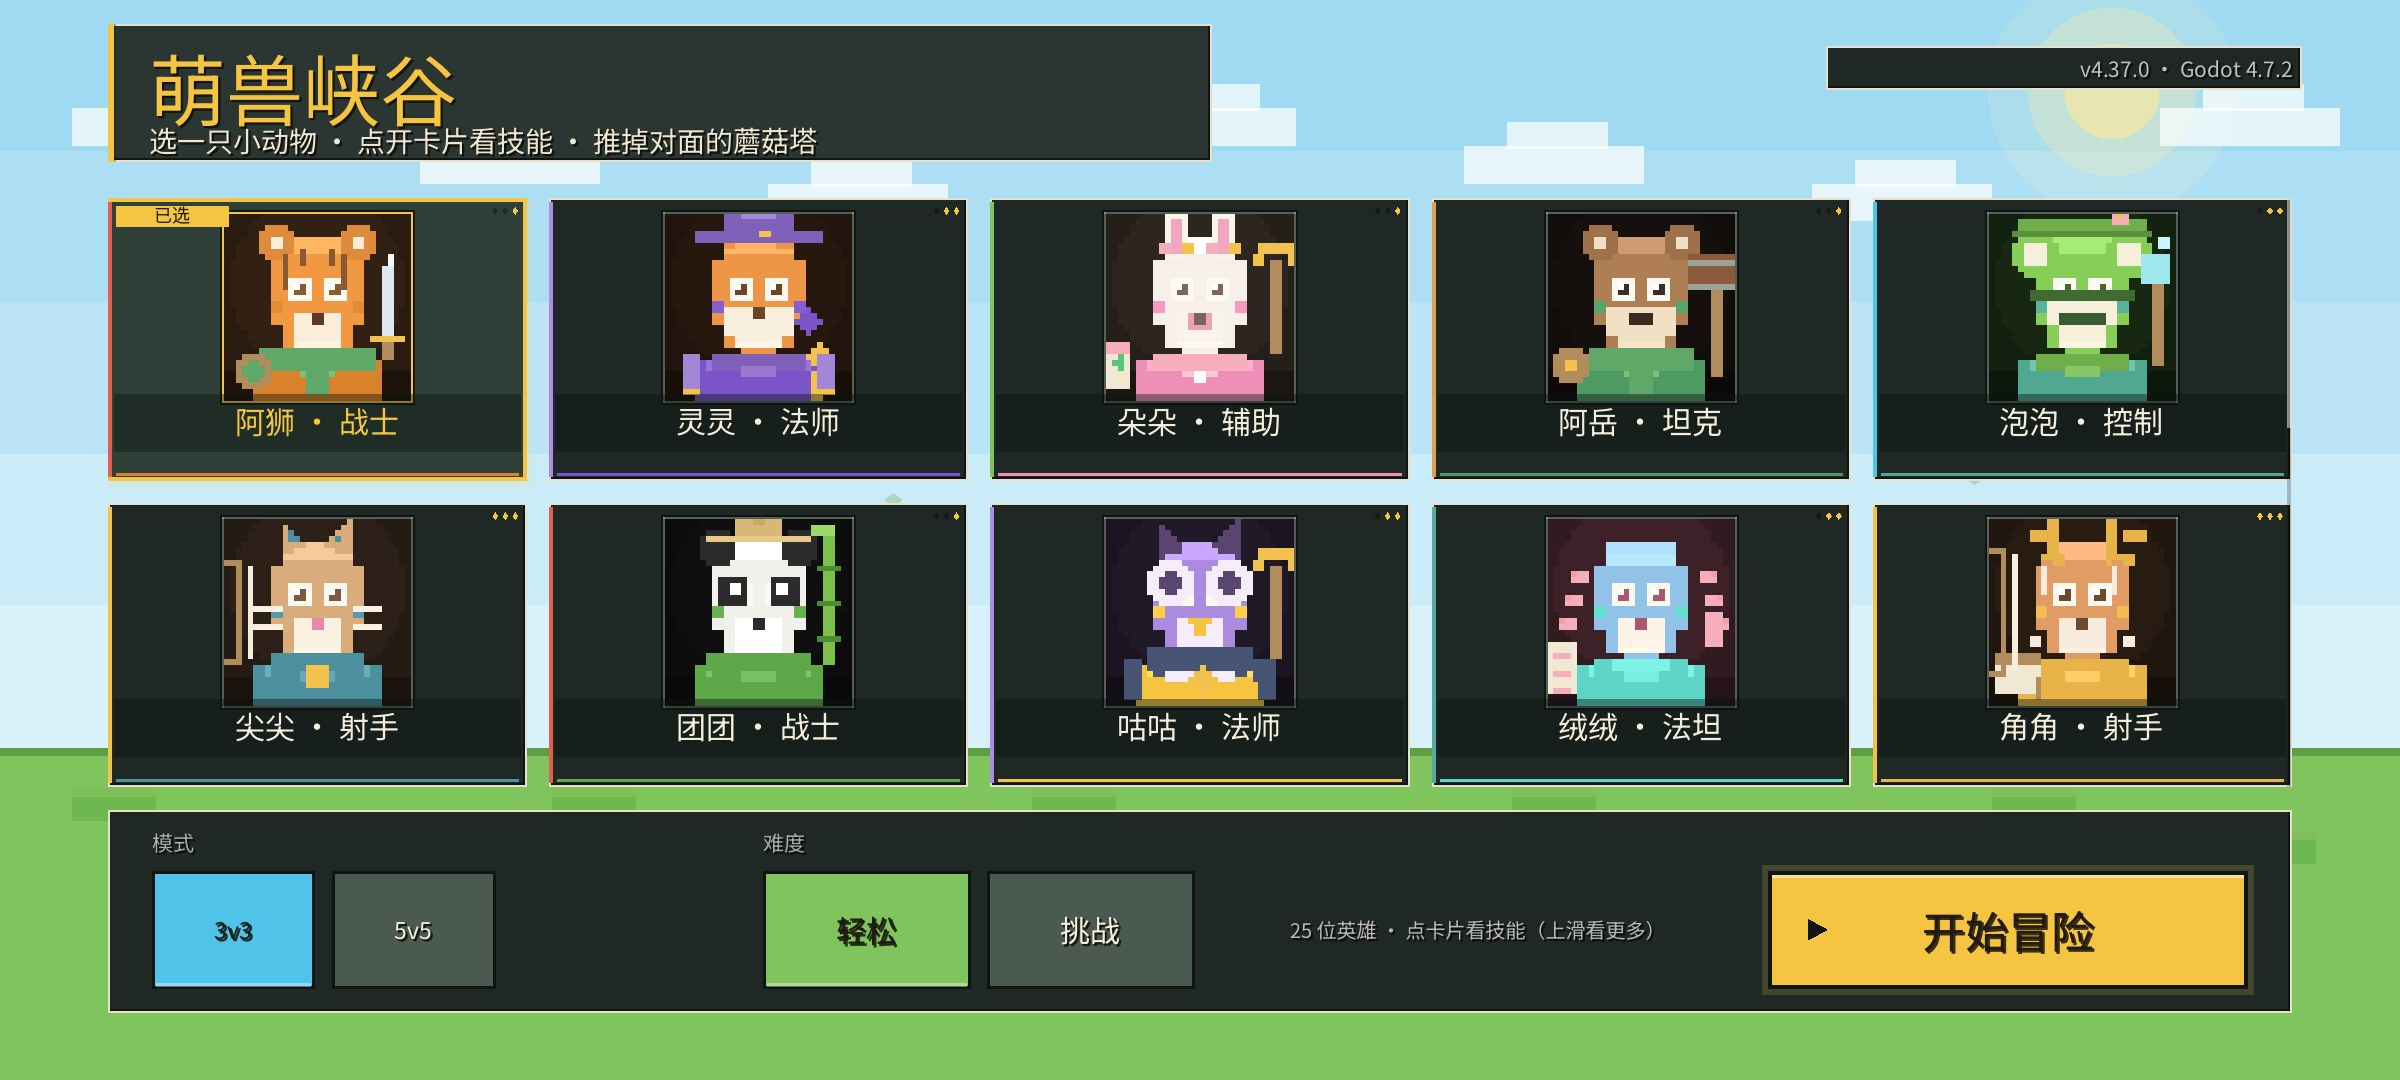
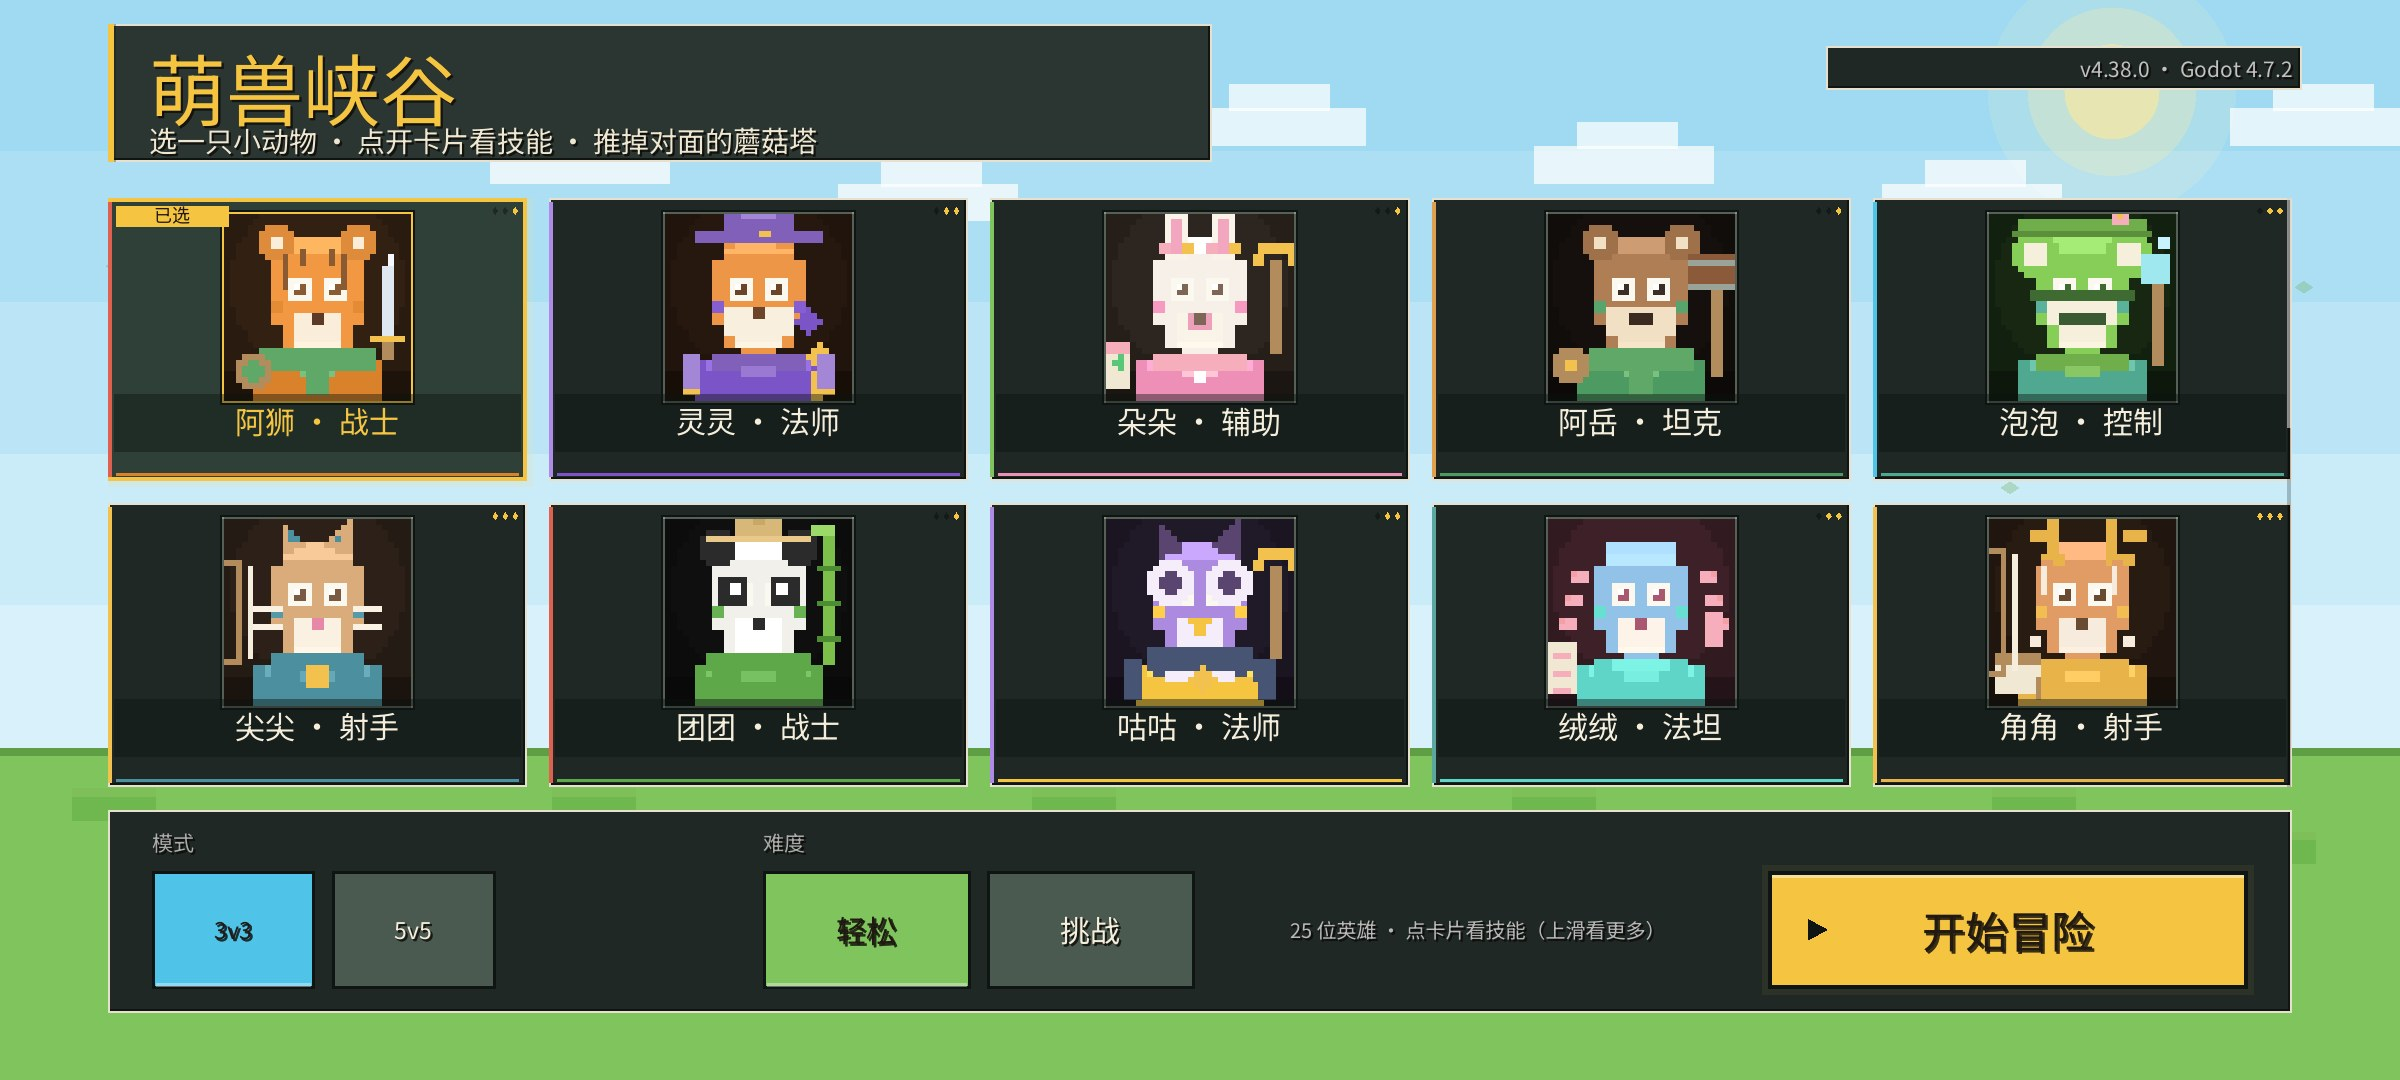
feat: 叶灵随兵线、远程叶弹与脉冲击退（4.38.0）

diff --git a/specs/SPEC-super-minion-wave.md b/specs/SPEC-super-minion-wave.md
@@ -1,0 +1,59 @@
+# SPEC — 叶灵改为随兵线出现 + 远程 + 击退
+
+状态：已实现（4.38.0 / code 87）
+日期：2026-11-22
+版本目标：4.38.0 / versionCode 87
+
+## 问题
+
+4.37.0 的叶灵在推塔瞬间原地出现、近战自卫、脉冲只有回血/祝福，玩家反馈：
+
+1. 叶灵应该随**下一波兵线**出现，死亡后随下一波新兵线再出现；
+2. 叶灵要躲在普通兵线后面，攻击改为**远程**；
+3. 叶灵释放技能（回血脉冲）时，自身周围带**瞬间击退**。
+
+## 改法
+
+### 1. 随下一波兵线出现 / 死亡后下一波再出
+
+- 推塔时不再原地生成叶灵，而是给「队伍 × 路」记一个 `support_pending`：
+  - 播报「蓝方推掉上路塔！下一波兵线叶灵来帮忙」；
+  - 下一波该路兵线从基地出发时，叶灵随兵线一起出现（在兵线后方）。
+- 叶灵被击败后把同一「队伍 × 路」重新标记 pending，**下一波新兵线**再出一只；
+  只要该路推过塔，叶灵就会一直随兵线轮换（每波最多一只、同一路不叠）。
+- 同一路已有存活叶灵时再推塔：不排新队列，只把现有叶灵补满血。
+- 缓存于 `BattleSim.support_unlocked / support_pending`，`spawn_wave_lane` 末尾消费。
+
+### 2. 躲在兵线后面 + 远程攻击
+
+- 攻击距离 110 → **260**，用 `shoot(..., style="leaf")` 发叶绿弹道（有拖尾），
+  不再贴脸；攻击间隔 1.2s、伤害 12 不变。
+- 移动目标：找同路**最前面的己方普通小兵**，站在它后方约 80 弧长；
+  落后就追、超前就退；没有己方小兵时原地跟队/等待，不单独冲塔。
+- 敌人进入 130 内先后退；攻击在 260 内持续进行，不需要停下来。
+
+### 3. 技能瞬间击退
+
+- 回血脉冲（每 2.5s）释放时：
+  - 保留原有回血与 6 秒 +12% 伤害 / 12% 减伤；
+  - 以叶灵为中心 **170 范围**内敌方英雄/小兵/野怪**瞬间击退 55**（不击退塔/水晶/巨兽）；
+  - 金色击退环 + 金色光点，叶灵本体有一次 0.3s 鼓起施法缩放；
+  - 击退用现有 `move_to`，不穿水晶底座。
+- 数值：`minion.support_knock_radius=170`、`support_knock_distance=55`。
+
+### 4. 保持不变
+
+- 外形 56 高、大圆头/叶芽帽/叶翼/发光杖/小挎包/队伍色围巾；
+- 每路最多一只、可被击杀（60 经验）、小地图叶绿点 + 细血条；
+- 治疗 4%/8%/3%、攻防祝福 12%、AI 回防与巨兽/九级规则不变。
+
+## 验收
+
+- [x] 推塔后不立即生成；下一波该路兵线出发时叶灵随行（在兵线后方）
+- [x] 叶灵死亡后下一波新兵线再出一只；同一路存活时不叠
+- [x] 攻击距离 260、发射 leaf 弹道；移动时保持在己方最前小兵后方约 80
+- [x] 脉冲击退：170 内敌方英雄被推开约 55；塔/水晶/巨兽不被推
+- [x] `SIM_OK` / `RULE_OK` / `FLOW_OK` / `COMEBACK_OK` / `SUPPORT_OK` 全绿
+- [x] 桌面录像/模型审计：叶灵随兵线、回血环 + 金色击退环；模拟器 4.38.0 安装启动 0 脚本错误
+- [x] APK `TapArena-v4.38.0.apk`（28,538,912 字节 / code 87 / `CN=TapArena`，
[1 lines of base64/hex data omitted]

diff --git a/AGENTS.md b/AGENTS.md
@@ -123,10 +123,11 @@ adb devices   # 必须是 emulator-5554  device
 - 启动图标：自适应前景有效像素必须落在 432 画布中央 264 安全区内并居中；`launcher_icons/adaptive_monochrome_432x432` 必须指向 `app_icon_monochrome.png`，否则 Android 13 主题图标缺 monochrome 节点。
 - 建筑保护层级严格为 **外塔 → 内塔 → 水晶**：前序建筑未毁时后续建筑完全免疫伤害，AI 不得绕过前塔。
 - 节奏固定：3v3 为 3:00 终极对决 + 峡谷巨兽，4:00 起 45 秒结算倒计时，4:45 兜底结算；5v5 为 4:00 峡谷巨兽、5:00 终极对决，8:00 上限、等级上限 9（4.36 起），最后 45 秒防御塔停火。巨兽与终极对决由 `boss_time` / `sudden_death_time` 两个字段控制，3v3 默认同帧。
-- 推塔奖励叶灵（4.37 起）：任意敌方塔被摧毁时，摧毁方在该路生成一只「叶灵」
-  （每路最多一只，再推塔只补满血；被击败后同路再推塔可重出）；跟随兵线推进，
-  每 2.5 秒回血（英雄 4% / 小兵 8% / 自己 3%）并给 6 秒 +12% 伤害 / 12% 减伤；
-  体型 56 高（英雄 88），可被塔/英雄/小兵击杀，击杀给 60 经验。数值在 `rules.json → minion.support_*`。
+- 推塔奖励叶灵（4.38 起）：任意敌方塔被摧毁后先排队，**下一波该路兵线**从基地出发时
+  叶灵随行；被击败后**下一波新兵线**再出一只（每路最多一只，存活时只补满血）。
+  躲在己方最前小兵后方约 80，远程 260 发 leaf 叶弹；每 2.5 秒回血（英雄 4% / 小兵 8% /
+  自己 3%）+ 6 秒 +12% 伤害 / 12% 减伤，并把 170 内敌方英雄/小兵/野怪瞬推 55
+  （不推塔/水晶/巨兽）。体型 56 高（英雄 88），可被击杀，60 经验。数值在 `rules.json → minion.support_*`。
 - 巨兽阵营与节奏（4.36 起）：出场时 **50/50 随机选边**（同 seed 可复现，测试用 `boss_side_override`），本局锁定，被击杀后 **60 秒**回到同一方；击杀方获得 **45 秒** +15% 伤害。落后方击杀领先方英雄仍有 +50% 终结赏金经验；敌方巨兽压到己方前塔/水晶 520 内时 AI 回防。别再改回「固定帮落后方」「25 秒复活」或「15 秒增益」。
 - 3v3 为 3600×1600 单路（4.31 起由 3000 加宽）：双方外塔相距 1100（蓝 1250 / 红 2350），塔与药剂坐标在 `rules.json`；3v3 树缩放 0.50–0.72，5v5 保持 0.85–1.35。
 - 5v5 为 3600×3600 对角三路（4.20 起由 2400 放大 1.5 倍）：上路沿左/上边、中路对角、下路沿下/右边，河道斜穿野区；每方 3 座路塔，拆掉 2 座后水晶失去保护；野区 6 个营地（野猪/灰狼/河蟹，狼营给增伤、蟹营给加速），双方各一名打野只刷本方野区；终极对决只放大建筑伤害，塔/水晶保护层级全程有效。

diff --git a/CHANGELOG.md b/CHANGELOG.md
@@ -16,6 +16,34 @@
 
 - 移除已冻结的 Unity 3.2.0 存档（`unity/`）、`打开Unity工程.cmd`、Unity 构建与 Polyfork/Blender 美术脚本、v3.2 预览图及对应 `.gitignore` 规则；仓库只保留 Godot 主线与 Web 存档。
 
+## [4.38.0] - 2026-11-22
+
+**叶灵改为随下一波兵线出现：死亡后下一波重出、躲在兵线后远程叶弹、脉冲击退。**
+
+### 调整
+
+- 推塔时不再原地生成叶灵，先给「队伍 × 路」排队；**下一波该路兵线**从基地出发时
+  叶灵随行（播报「下一波兵线叶灵来帮忙」）。被击败后**下一波新兵线**再出一只；
+  同一路存活时再推塔只补满血，不叠第二只。
+- 叶灵攻击改为**远程**：射程 110 → 260，用 `leaf` 叶绿弹道（带拖尾）；
+  攻击间隔 1.2 秒、伤害 12 不变。
+- 移动逻辑：寻找同路最前的己方普通小兵，站在其后方约 80 弧长；落后就追、超前就退；
+  没有小兵时原地等下一波，不单独冲塔；敌人进入 130 内先后退，260 内持续远程输出。
+- 回血脉冲新增**瞬发击退**：以叶灵为中心 170 范围内的敌方英雄/小兵/野怪被推开 55，
+  塔/水晶/巨兽不推；金色击退环 + 金点，叶灵本体 0.3 秒施法鼓起。
+- 外形/回血 4%/8%/3%、6 秒 +12% 伤害 / 12% 减伤、每路一只、击杀 60 经验、
+  小地图叶绿点与细血条保持。
+
+### 验证
+
+- `SUPPORT_OK spawn/heal/buff/guard/kill/5v5`：推塔排队、下一波随行、死亡后下一波重出、
+  同路不叠；远程 200 距离发叶弹；脉冲击退 150→205；回血/攻防/减伤/60 经验/5v5 分路；
+  叶灵 56 高、调色板不溢出。
+- `SIM_OK` / `RULE_OK` / `FLOW_OK` / `COMEBACK_OK` 全绿，无 `SCRIPT ERROR`。
+- 桌面录像：叶灵随兵线、回血环 + 金色击退环；模拟器 4.38.0 安装启动 0 脚本错误。
+- APK：28,538,912 字节，versionCode 87 / versionName 4.38.0 / arm64-v8a / `CN=TapArena`，
[1 lines of base64/hex data omitted]
+
 ## [4.37.0] - 2026-11-22
 
 **推塔奖励超级兵「叶灵」：可爱的漂浮辅助兵，回血 + 短暂攻防祝福。**

diff --git a/specs/SPEC-super-minion.md b/specs/SPEC-super-minion.md
@@ -1,5 +1,7 @@
 # SPEC — 推塔奖励超级兵「叶灵」
 
+> 4.38.0 起改为「随下一波兵线出现 / 死亡后下一波重出 / 躲在兵线后远程 / 脉冲击退」，见 `SPEC-super-minion-wave.md`。
+
 状态：已实现（4.37.0 / code 86）
 日期：2026-11-22
 版本目标：4.37.0 / versionCode 86
